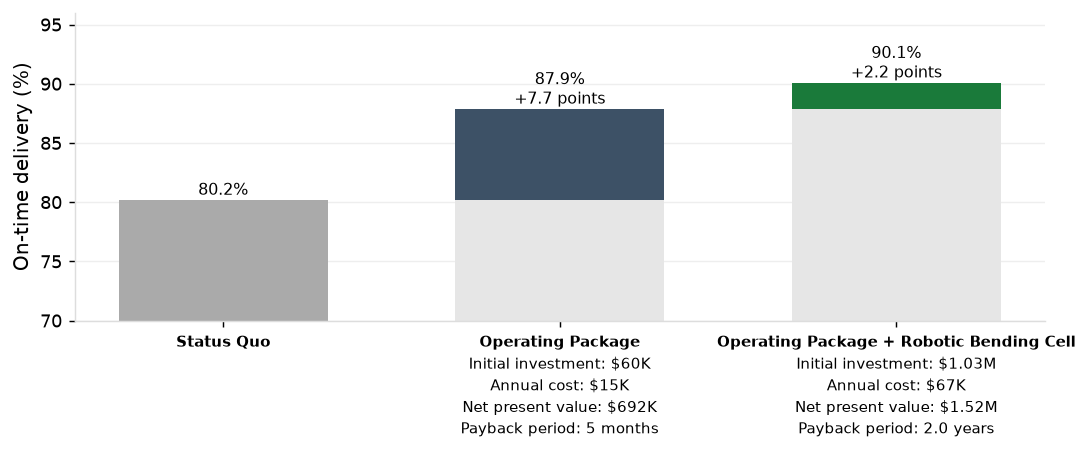
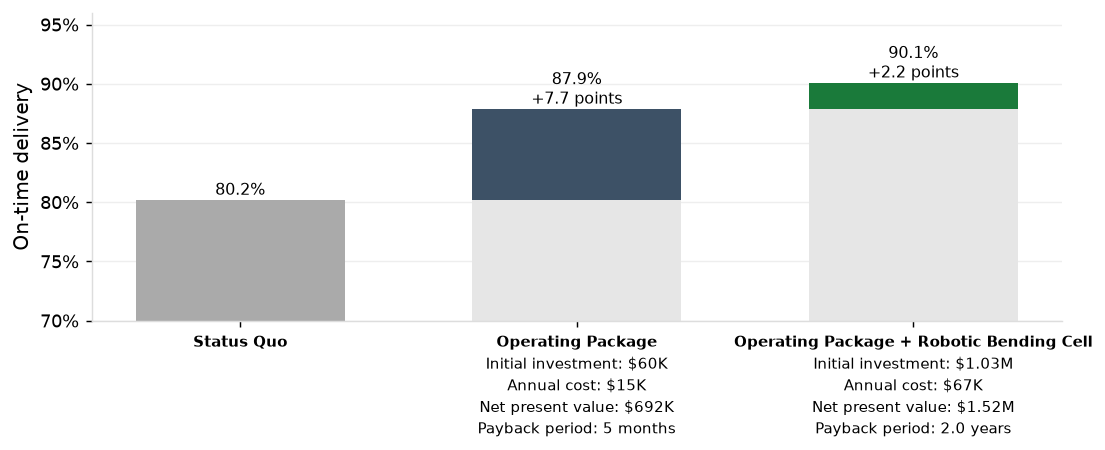
Simulation report: axis titles on the two summary charts

diff --git a/docs/reports/options_tested.html b/docs/reports/options_tested.html
@@ -60,9 +60,9 @@ nav.toc a.sub { font-size: 12px; padding-left: 22px; }
 <p>A discrete event simulation of the shop floor was built to test a range of scenarios aimed at raising on-time delivery. The model replays every job released from January 2024 through the shop's own routings, shift calendars, crewing, recorded downtime, and dispatch rules, and draws setup, run, move, and material times from the shop's recorded performance. This lets us measure the impact that each scenario has on on-time delivery and related measures: brake utilization and queue time, floor WIP, late jobs, and days late.</p>
 <p>The model's accuracy was checked with a baseline run of every job with no changes, replicating the shop as it actually operated (the &quot;Status Quo&quot; scenario). It reproduced 100% of measures within tolerance, including 2025 on-time delivery of 80.2% against 80.8% measured and a year-end peak of 464 jobs on the floor against 466 measured. <a href='#f4'>Section 4</a> gives the full validation.</p>
 <p>We tested scenarios in two categories: (i) release and dispatch rules governing when work is released and the order in which it is run, and (ii) capacity changes that add machine hours. As shown below, the changes that add brake hours raised on-time delivery the most, while changes to release and dispatch had a neutral or negative impact.</p>
-<div class='chart-title'>Scenario Results: Change in On-time Delivery vs. Status Quo, 2025</div><img alt="Scenario Results: Change in On-time Delivery vs. Status Quo, 2025" src="../figures/summary_effects.png?v=7b9e2eee">
+<div class='chart-title'>Scenario Results: Change in On-time Delivery vs. Status Quo, 2025</div><img alt="Scenario Results: Change in On-time Delivery vs. Status Quo, 2025" src="../figures/summary_effects.png?v=69cdfaf1">
 <p>We compared the results of the scenarios individually and in specific combinations alongside their cost of implementation, NPV and payback periods. We found that the <b>&quot;Operating Package&quot; (brake setup program + additional Saturday shifts on both brakes)</b> increased 2025 on-time delivery by 7.7 points to 87.9% without significant capital investment. Adding a robotic bending cell on top of the Operating Package generated the highest return of all capital-intensive options tested, increasing on-time delivery another 2.2 points to 90.1%. <a href='#f2'>Sections 2</a> and <a href='#f3'>3</a> detail these results and ROI.</p>
-<div class='chart-title'>On-time Delivery, Status Quo vs. Recommended Scenarios, 2025</div><img alt="On-time Delivery, Status Quo vs. Recommended Scenarios, 2025" src="../figures/summary_steps.png?v=4e384c4b">
+<div class='chart-title'>On-time Delivery, Status Quo vs. Recommended Scenarios, 2025</div><img alt="On-time Delivery, Status Quo vs. Recommended Scenarios, 2025" src="../figures/summary_steps.png?v=e74135de">
 <div class='caption'>Note: net present value and payback period assume 50% of the freed brake hours are sold.</div>
 <h2 id='f1'>1. Simulations Tested</h2>
 <p>We considered two broad categories of simulations intended to raise on-time delivery:</p>

diff --git a/analytics/reports/options_tested.py b/analytics/reports/options_tested.py
@@ -270,7 +270,7 @@ def fig_summary_effects():
     ax.set_yticklabels(names, fontsize=9)
     lo, hi = ax.get_xlim()
     ax.set_xlim(lo - 1.2, hi + 1.2)
-    ax.set_xlabel("Change in on-time delivery")
+    ax.set_xlabel("Change in on-time delivery (points)")
     f.legend([Patch(color=c) for c in KIND_COLOR.values()], list(KIND_COLOR), frameon=False, fontsize=8.5, ncol=2, loc="lower center")
     f.tight_layout(rect=(0, 0.1, 1, 1))
     return save(f, "summary_effects", "")
@@ -298,7 +298,9 @@ def fig_summary_steps(package, cell):
     ax.set_xticks(range(len(steps)))
     ax.set_xticklabels(["" for _ in steps])
     ax.set_ylim(floor, 96)
-    ax.set_ylabel("On-time delivery (%)")
+    ax.set_yticks(range(70, 100, 5))
+    ax.set_yticklabels([f"{v}%" for v in range(70, 100, 5)])
+    ax.set_ylabel("On-time delivery")
     f.subplots_adjust(left=0.08, right=0.99, top=0.95, bottom=0.31)
     return save(f, "summary_steps", "")
 
